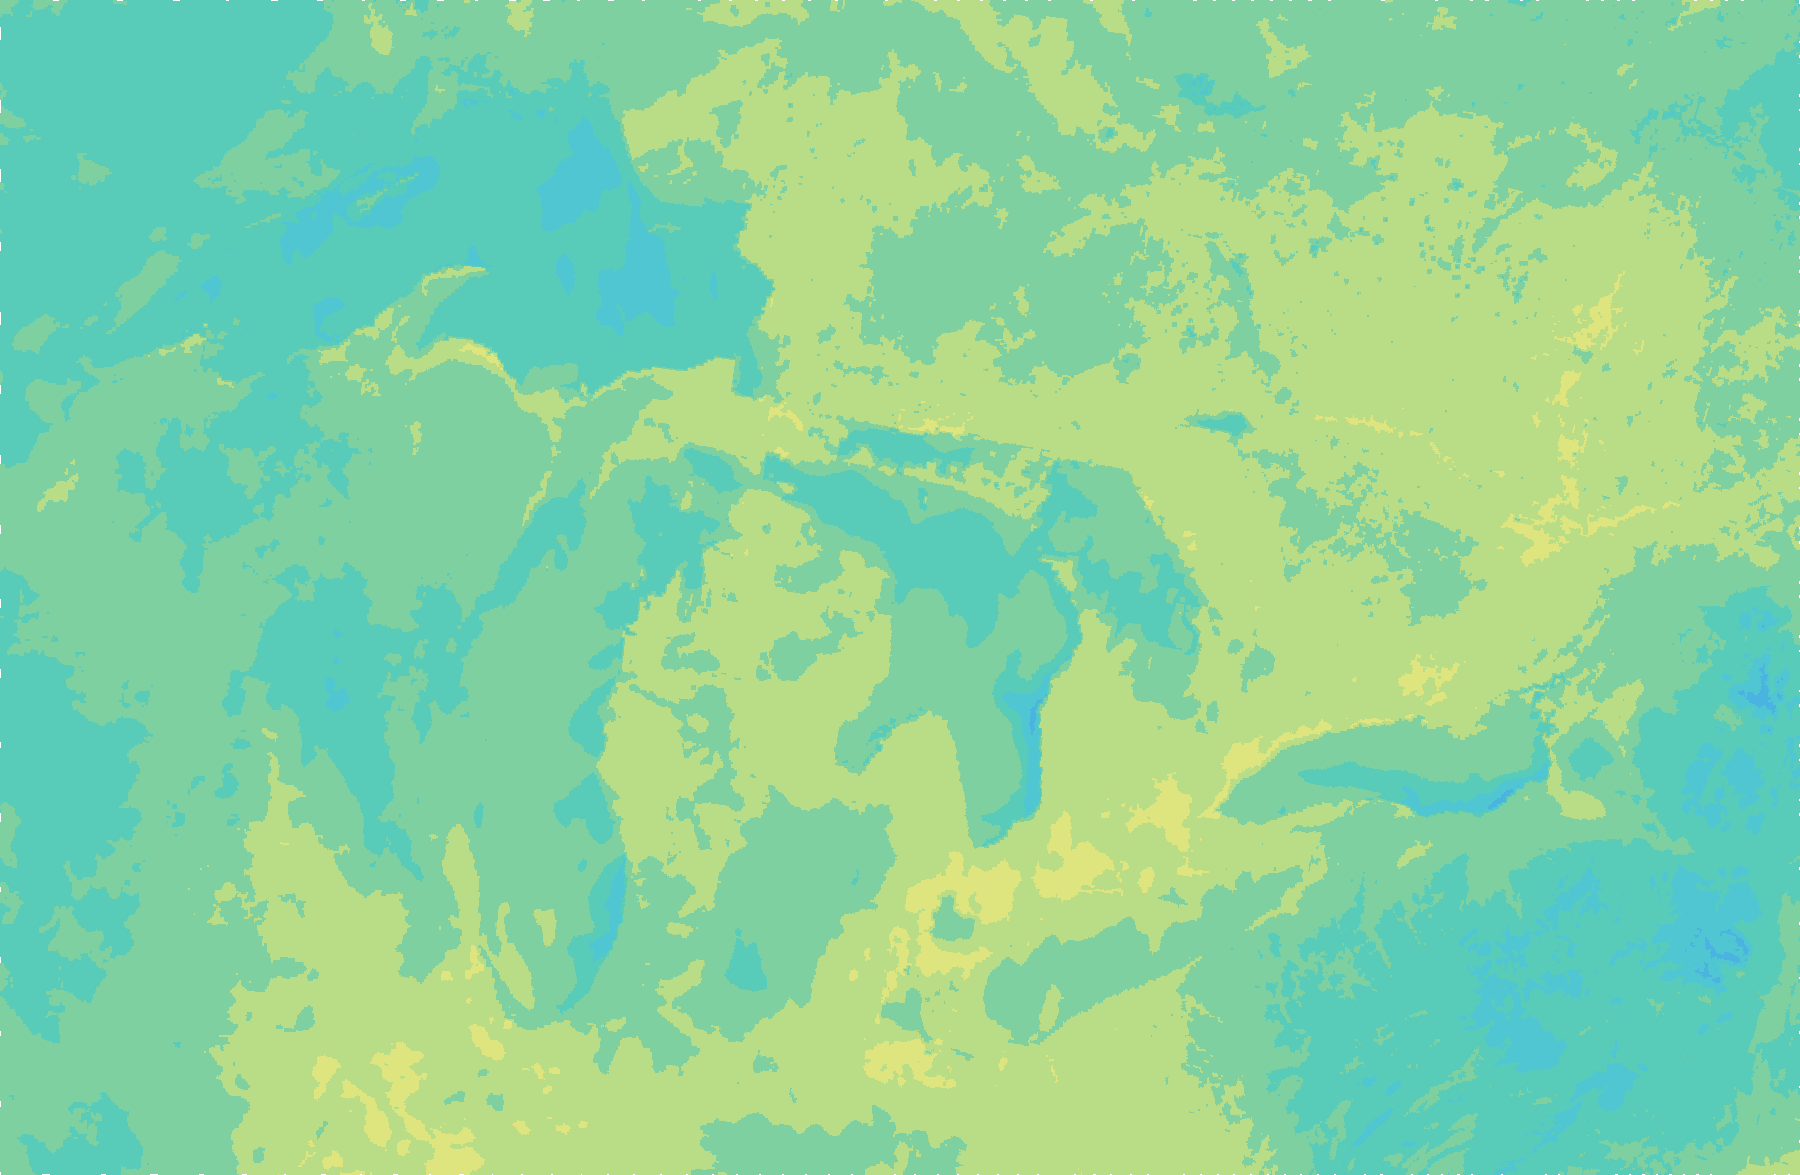
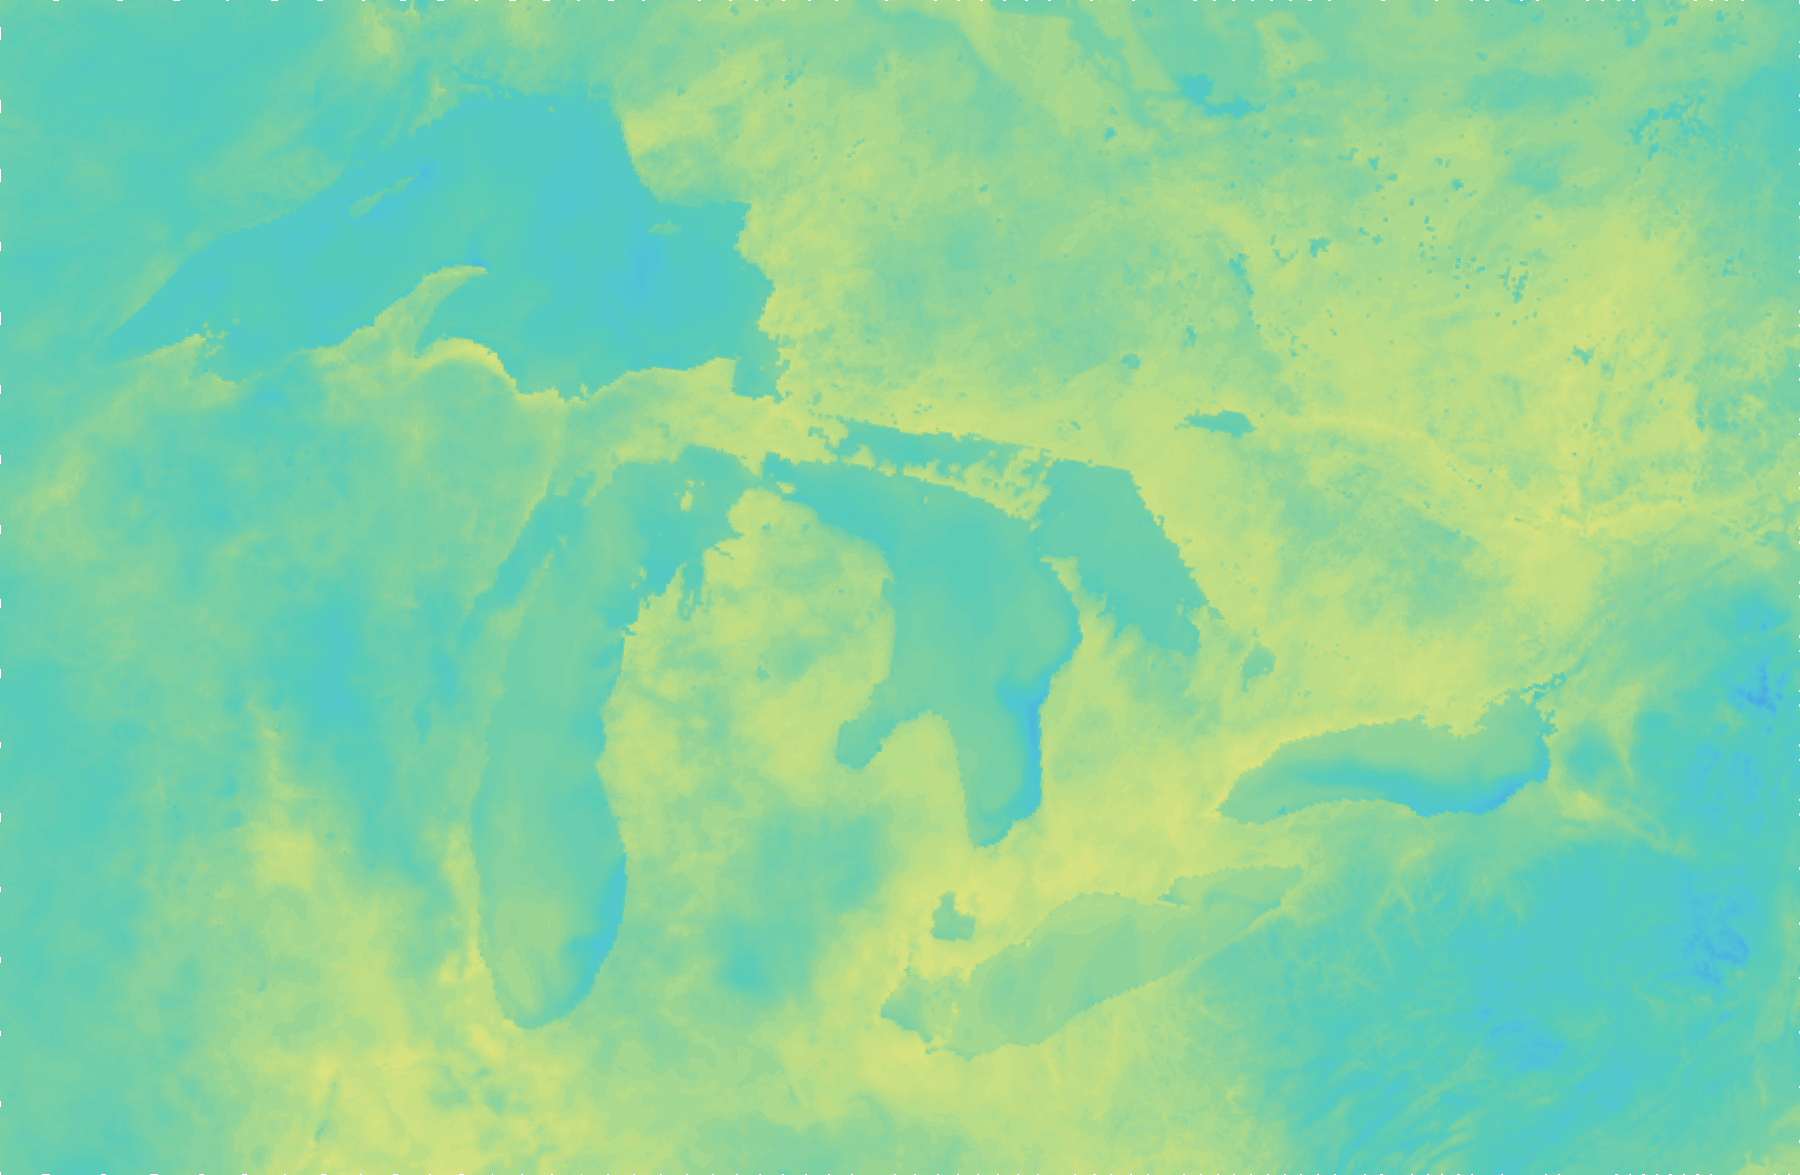
Steady continuous gradient for air temp raster (key colors exact at band centers)

diff --git a/scripts/build_air_temperature.py b/scripts/build_air_temperature.py
@@ -1,11 +1,9 @@
 """Pipeline K — LIVE AIR TEMPERATURE (independent).
 
 NOAA/NCEP HRRR 3 km 2 m temperature analysis (hourly cycles; Kelvin ->
-Fahrenheit; FIXED banded 5 F-step key, -60..150 F, after the reference
-gradient: blue-white extreme cold -> gray-blue subfreezing -> royal-blue
-freezing wall -> turquoise/blue frigid -> lime/teal transition ->
-mellow yellow -> orange/gold warming -> scorching pink/red, BRIGHTENED
-throughout so no band renders dark) -> validate -> FULL
+Fahrenheit; FIXED key, -60..150 F, after the reference gradient zones,
+BRIGHTENED throughout so no color renders dark; the MAP paints a steady
+continuous gradient passing exactly through every key color) -> validate -> FULL
 BASIN RECTANGLE (lon -93..-73.5, lat 40.5..49.5: land and water both
 paint; only missing data is transparent) -> transparent PNG -> key image
 + metadata -> Folder KML.
@@ -106,21 +104,32 @@ TEMP_BANDS = [
 ]
 
 # Step-function stops: identical colors on both edges of each band, so the
-# renderer paints FLAT 5-degree bands (no blending between bands). Built
+# KEY IMAGE paints flat 5-degree bars (no blending between bars). Built
 # band by band (NOT globally sorted) so each shared edge keeps the order
 # (hi, old-color), (lo, new-color) with a zero-width transition segment.
 TEMP_STOPS = []
 for _lo, _hi, _rgb in TEMP_BANDS:
     TEMP_STOPS += [(_lo, _rgb), (_hi, _rgb)]
 
+# Smooth raster stops: one anchor at each band CENTER in its band color, so
+# the MAP paints a STEADY continuous gradient that passes exactly through
+# every key color (band centers match the key pixel-for-pixel; only the
+# 5-degree spans across boundaries blend). Same key colors, same order,
+# strictly increasing values: a faithful monotonic function of source
+# temperature, like the previous continuous spectrum.
+TEMP_SMOOTH_STOPS = [((lo + hi) / 2.0, rgb) for lo, hi, rgb in TEMP_BANDS]
+
 SCALE_HTML = (
-    "2 m air temperature (degF), FIXED banded 5-degree key (-60..150 F): "
-    "<b>LOWEST -60</b> blue-white (extreme cold) &rarr; gray-blue "
-    "subfreezing &rarr; <b>royal-blue freezing wall (30-40)</b> &rarr; "
-    "frigid turquoise/blues (40-55) &rarr; transitional lime/teals "
-    "(55-70) &rarr; mellow yellows (70-85) &rarr; warming orange/golds "
-    "(85-100) &rarr; <b>HIGHEST+ 150 scorching pink/reds (100+)</b>. "
-    "Same temperature always shows the same color; every band is "
+    "2 m air temperature (degF), FIXED key (-60..150 F) with a STEADY "
+    "gradient on the map: the raster blends smoothly through blue-white "
+    "extreme cold &rarr; gray-blue subfreezing &rarr; <b>royal-blue "
+    "freezing wall (30-40)</b> &rarr; frigid turquoise/blues (40-55) "
+    "&rarr; transitional lime/teals (55-70) &rarr; mellow yellows "
+    "(70-85) &rarr; warming orange/golds (85-100) &rarr; <b>scorching "
+    "pink/reds (100+) to HIGHEST+ 150</b>, passing exactly through every "
+    "key color (key bars show the <b>LOWEST -60</b> to <b>HIGHEST+ 150</b> "
+    "band centers). "
+    "Same temperature always shows the same color; every color is "
     "brightened so nothing renders dark. Freezing (32 F) sits inside "
     "the royal-blue wall.")
 
@@ -287,7 +296,9 @@ def _build(base, datestr, cycle):
         print(f"[{PRODUCT}] cold start: seeding history from this analysis.")
     sample = vals[::max(1, vals.size // 20000)][:20000]
     rec, res = update_record(rec, res, sample)
-    stops = list(TEMP_STOPS)  # fixed brightened 5 F-step banded key
+    # Map: steady gradient through the key colors (band centers exact).
+    # Key image uses TEMP_STOPS (flat bars) and is NOT touched.
+    stops = list(TEMP_SMOOTH_STOPS)
     rgba = render_rgba(field, stops, bounds["overlay_alpha"])
     # NOTE: full basin rectangle (no shoreline cut). Only missing data
     # is transparent.
